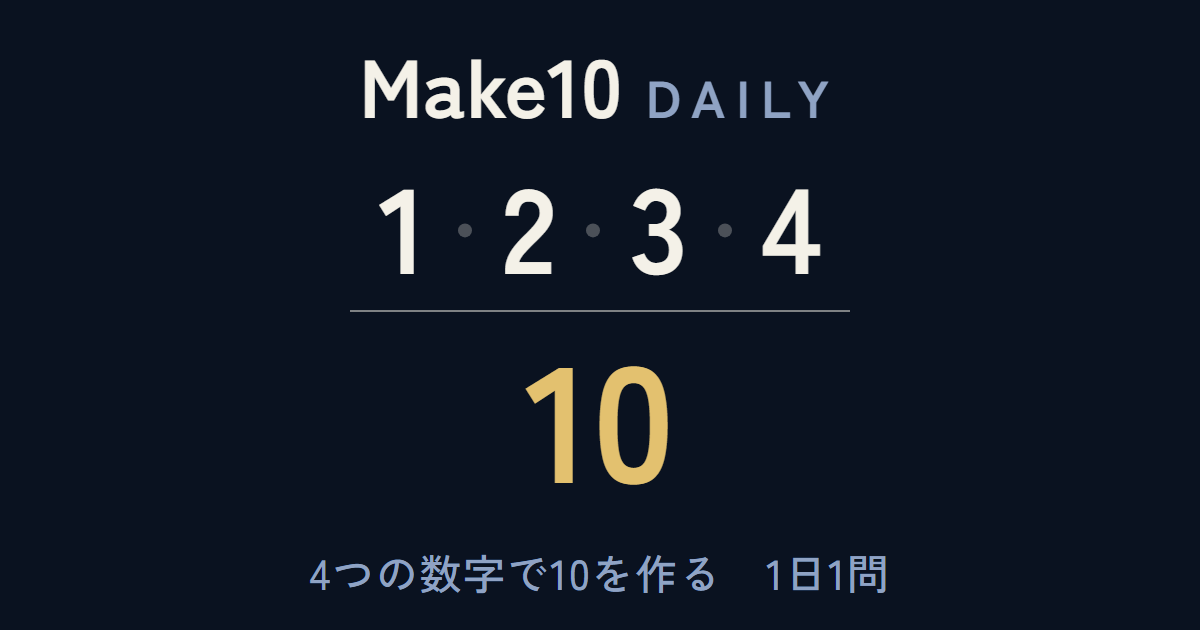
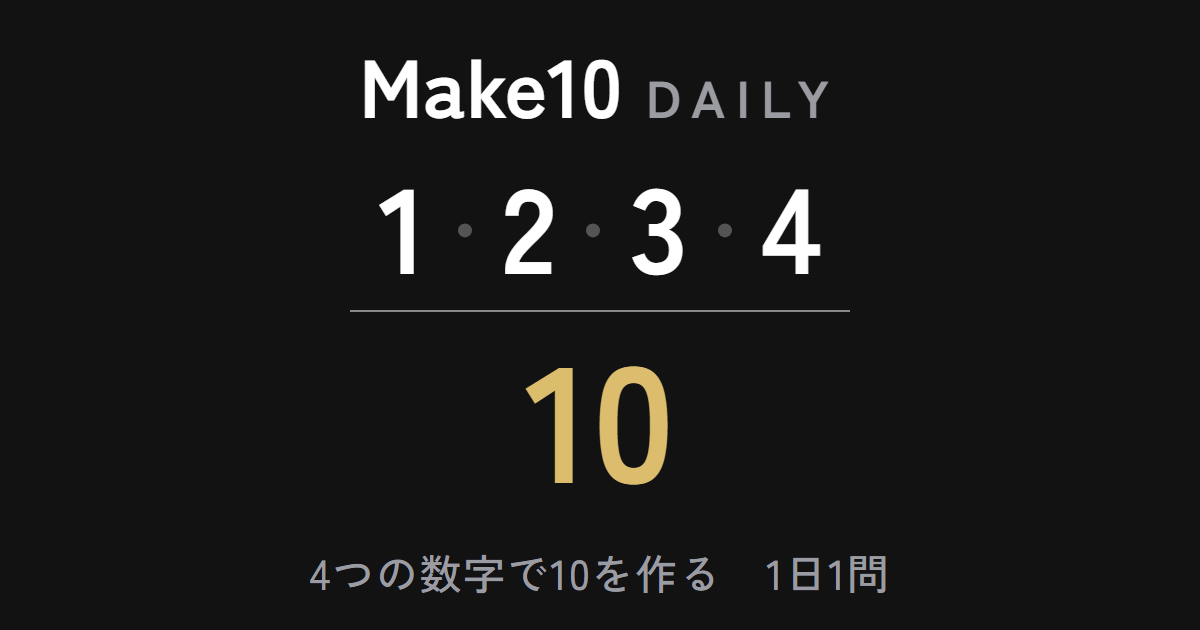
D0.29 デイリーの配色を藍から「黒と白」にする（本編 8.6 と同じ値。OGP の画像とプライバシーポリシーも。本編のページと検証は無変更）
- 本編から複製した藍の規則を本編 8.6 と同じ値に（sync が見る所）。プライバシーポリシーの直値 4 つも黒と白に
- docs/daily/og.png を同じ形のまま黒と白で撮り直した（名前は変えていない。元の HTML はリポジトリの外の og\k.html）
- カレンダーの点 --calDot を、副次色を地に 55% 混ぜた色から 60% に。
  原因: 新しい副次色と地では 55% だと地との比が 2.88 で、決まりの 3 に届かない（60% で 3.20。副次色の半分 3.41 より下）
- DAILY-SPEC 冒頭・9 章・13-8・15 章（ライトモードは案 A 白と墨に決まった。値の表を黒と白と並べて書き直した）・17-6 を更新

確かめたこと:
- python verify_daily.py 2945 / 2948（3 画面・989 秒。落ちたのはカレンダーの点の 3 項目だけ）
- 直してから calendar・sync・brand・ogp・privacy を 3 画面で 502 / 502、sync だけで 10 / 10
- 色を直値で見ていた 10 のケースの期待値を新しい値に

やらなかったこと・気づいたこと:
- わざと壊して赤になるかの確かめはしていない。実機では見ていない
- 公開前なので og.png に ?v= の印は付けていない

Changed region(s): [[0.2467, 0.8746, 0.74, 0.9349], [0.5242, 0.1206, 0.7092, 0.2111]]

diff --git a/docs/daily/index.html b/docs/daily/index.html
@@ -32,7 +32,7 @@
 <style>
 /* ── 本編から複製した規則（セレクタごとに本編と同じ。手を入れない）── */
 :root{--zoneEase:cubic-bezier(.22,.72,.3,1); --dur:.3s; --hotDur:.2s; --bannerH:52px; --bannerGap:14px}
-body[data-theme="ai"]{--ink:#0A1220;--panel:#121D31;--edge:#24344F;--paper:#F4F1E8; --teal:#4FC3B0;--slate:#55688A;--coral:#E2705F;--gold:#E3C16F;--line:159,180,214; --dim:#8FA3C4; --ring:color-mix(in srgb,var(--paper) 22%,transparent); --bannerText:#2F4163}
+body[data-theme="ai"]{--ink:#121213;--panel:#121213;--edge:#3A3A3C;--paper:#FFFFFF; --teal:#4FC3B0;--slate:#5F6064;--coral:#E26A57;--gold:#DCBD6E;--line:154,156,161; --dim:#9A9CA1; --ring:color-mix(in srgb,var(--paper) 22%,transparent); --bannerText:#404145}
 *{box-sizing:border-box;-webkit-tap-highlight-color:transparent}
 html,body{margin:0;height:100%;overflow:hidden}
 body{background:var(--ink); color:var(--paper); font-family:"Zen Kaku Gothic New",system-ui,-apple-system,"Hiragino Sans",sans-serif; font-weight:500;display:flex;justify-content:center;overscroll-behavior:none;touch-action:manipulation}
@@ -296,9 +296,9 @@ body.pop #app{z-index:3}
 /* カレンダー（13-8。D0.11）。囲まない ―― 4 つの数字との間は細い線 1 本。週は月曜始まり。
    日の見分けは形でも分ける: 解いた日 = 塗りつぶした丸（--paper）／ギブアップ = 輪だけの丸（--dim）／
    遊ばなかった日 = 数字の下の小さな点（--calDot）／今日 = 外側に枠／問題が無い日 = 印なし（数字は無効の色）。金も赤も使わない。
-   --calDot（D0.12）は、副次色 --dim を地の色に 55% 混ぜた色。--edge（地との比 1.5）では暗い画面で見落とすので、
-   見える濃さ（比 3.2）にした。輪（--dim。比 7.4）と塗った丸（--paper）よりは沈む。色は既存の変数から作る */
-#dcal{margin:12px 15px 0;padding-top:6px;border-top:1px solid var(--edge);--calDot:color-mix(in srgb,var(--dim) 55%,var(--ink))}
+   --calDot（D0.12）は、副次色 --dim を地の色に 60% 混ぜた色（D0.28 までは 55%。D0.29 の黒と白では 55% だと比 2.88 になるので上げた）。
+   --edge（地との比 1.65）では暗い画面で見落とすので、見える濃さ（比 3.2）にした。輪（--dim。比 6.8）と塗った丸（--paper）よりは沈む。色は既存の変数から作る */
+#dcal{margin:12px 15px 0;padding-top:6px;border-top:1px solid var(--edge);--calDot:color-mix(in srgb,var(--dim) 60%,var(--ink))}
 #dcal .chead{display:flex;align-items:center;justify-content:space-between}
 #dcal .chead b{font-size:14px;font-weight:700}
 #dcal .chead button:disabled{color:var(--slate);opacity:.5;cursor:default}
@@ -599,7 +599,7 @@ body.pop #app{z-index:3}
 </div>
 <script>
 /* デイリー独自の版（本編の APP_VERSION とは別。DAILY-SPEC 18-2）。変えたら CHANGELOG.md と CLAUDE.md の変更履歴に「D」の印で書く */
-const DAILY_VERSION="0.28";
+const DAILY_VERSION="0.29";
 
 /* ═══ 画面の文の辞書 ═══
    STR_CORE は本編と共通の塊（本編から複製。手を入れない）。STR_DAILY はデイリーだけの文で、

diff --git a/docs/privacy/index.html b/docs/privacy/index.html
@@ -11,8 +11,8 @@
 <link rel="preconnect" href="https://fonts.gstatic.com" crossorigin>
 <link href="https://fonts.googleapis.com/css2?family=Zen+Kaku+Gothic+New:wght@400;500;700&display=swap" rel="stylesheet">
 <style>
-/* 色はデイリーの藍（DESIGN.md 1 章の値）。囲まない ―― 節は余白と細い線 1 本で区切る */
-:root{--ink:#0A1220;--edge:#24344F;--paper:#F4F1E8;--dim:#8FA3C4}
+/* 色はデイリーの黒と白（DESIGN.md 1 章の値）。囲まない ―― 節は余白と細い線 1 本で区切る */
+:root{--ink:#121213;--edge:#3A3A3C;--paper:#FFFFFF;--dim:#9A9CA1}
 *{box-sizing:border-box}
 html,body{margin:0}
 body{background:var(--ink);color:var(--paper);

diff --git a/uiharness/daily_cases/calendar.py b/uiharness/daily_cases/calendar.py
@@ -18,9 +18,9 @@ from uiharness.daily_cases import lang as L
 NAME = "カレンダー"
 
 TZ = "Asia/Tokyo"
-PAPER, DIM, EDGE, SLATE, INK = ("rgb(244, 241, 232)", "rgb(143, 163, 196)", "rgb(36, 52, 79)", "rgb(85, 104, 138)",
-                                "rgb(10, 18, 32)")
-GOLD, CORAL = "rgb(227, 193, 111)", "rgb(255, 122, 92)"
+PAPER, DIM, EDGE, SLATE, INK = ("rgb(255, 255, 255)", "rgb(154, 156, 161)", "rgb(58, 58, 60)", "rgb(95, 96, 100)",
+                                "rgb(18, 18, 19)")
+GOLD, CORAL = "rgb(220, 189, 110)", "rgb(255, 122, 92)"
 # 出ている月の、日ごとの [日, 列（左から 0〜6）, 段, 問題番号（ボタンでなければ null）, クラス]
 GRID = ("(()=>{const g=document.getElementById('dcal-grid'),cs=[...g.querySelectorAll('.dc')];"
         "const xs=[...g.querySelectorAll('.dw')].map(e=>Math.round(e.getBoundingClientRect().left+e.getBoundingClientRect().width/2));"
@@ -99,9 +99,9 @@ def run(ui):
              ui.ev("(()=>{const s=getComputedStyle(document.querySelector('#dcal-grid .dc.g i'));"
                    "return [s.backgroundColor,s.borderTopColor,s.borderTopStyle,parseFloat(s.borderTopWidth)>=1,s.borderRadius,s.color]})()"),
              ["rgba(0, 0, 0, 0)", DIM, "solid", True, "50%", DIM])      # 線は 1.5px。1 倍の密度の画面では 1px に丸まる
-    # 点の色（D0.12）は、副次色を地の色に 55% 混ぜた色。期待値はここで別に計算する（ページの変数は読まない）
+    # 点の色（D0.12）は、副次色を地の色に 60% 混ぜた色（D0.29 で 55% から）。期待値はここで別に計算する（ページの変数は読まない）
     rgb = lambda c: [int(v) for v in re.findall(r"\d+", c)[:3]]                       # noqa: E731
-    mix = [(d * 0.55 + k * 0.45) / 255 for d, k in zip(rgb(DIM), rgb(INK))]
+    mix = [(d * 0.60 + k * 0.40) / 255 for d, k in zip(rgb(DIM), rgb(INK))]
 
     def lum(c):
         f = lambda v: v / 12.92 if v <= 0.04045 else ((v + 0.055) / 1.055) ** 2.4      # noqa: E731
@@ -116,7 +116,7 @@ def run(ui):
     got = [float(v) for v in re.findall(r"[\d.]+", d[3].split("srgb")[-1])[:3]] if "srgb" in d[3] else [v / 255 for v in rgb(d[3])]
     ui.check("見た目: 遊ばなかった日は、数字の下の小さな点（5px）。丸は無い。凡例の点も同じ色と大きさ",
              [d[0], d[1], d[2], d[4], d[5], d[6] == d[3], d[7]], ['""', "5px", "5px", "rgba(0, 0, 0, 0)", "0px", True, "5px"])
-    ui.check("点の色は、副次色を地の色に 55% 混ぜた色（別に計算した値と同じ）",
+    ui.check("点の色は、副次色を地の色に 60% 混ぜた色（別に計算した値と同じ）",
              [round(a - b, 3) for a, b in zip(got, mix)], [0, 0, 0])
     ui.check("点は見える濃さ（地との比が 3 以上）で、輪（副次色）と塗った丸（--paper）よりは沈む",
              [ratio(got) >= 3, ratio(got) < ratio([v / 255 for v in rgb(DIM)]) / 2, ratio(got) < ratio([v / 255 for v in rgb(PAPER)]) / 4],

diff --git a/uiharness/daily_cases/settings.py b/uiharness/daily_cases/settings.py
@@ -161,7 +161,7 @@ def run(ui):
     mine = ui.ev(made % ("dsetsheet", "dsetsheet"))
     bw = ui.ev("dstats.getBoundingClientRect().width")          # ボタンの大きさ（--btnW。normal 52px・compact 44px）
     ui.check("幕は画面いっぱい。× はカードの右上（端から 7px）で、上のバーのボタンと同じ大きさ。見出しは 17px・太字",
-             [mine[0], mine[2], mine[4]], [[0, 0, ui.size[0], ui.size[1]], [7, 7, bw, bw], "17px|700|rgb(244, 241, 232)"])
+             [mine[0], mine[2], mine[4]], [[0, 0, ui.size[0], ui.size[1]], [7, 7, bw, bw], "17px|700|rgb(255, 255, 255)"])
     click(ui, "dset-close")
     ui.check("× で閉じる", ui.ev(SHOWN), False)
     click(ui, "dstats")
@@ -202,7 +202,7 @@ def run(ui):
                    "document.body.appendChild(d);const c=getComputedStyle(d).color;d.remove();return c});"
                    "return [...document.querySelectorAll('#dsetsheet *')].filter(e=>{const c=getComputedStyle(e);"
                    "return bad.includes(c.color)||bad.includes(c.backgroundColor)}).length+'|'+bad.join('|')})()"),
-             "0|rgb(227, 193, 111)|" + ui.ev("(function(){const d=document.createElement('i');d.style.color='var(--coral)';"
+             "0|rgb(220, 189, 110)|" + ui.ev("(function(){const d=document.createElement('i');d.style.color='var(--coral)';"
                                              "document.body.appendChild(d);const c=getComputedStyle(d).color;d.remove();return c})()"))
     click(ui, "dset-close")
 

diff --git a/uiharness/daily_cases/agg.py b/uiharness/daily_cases/agg.py
@@ -15,7 +15,7 @@ NAME = "みんなの結果と計測"
 
 TZ = "Asia/Tokyo"
 URL = "https://api.make10.app/r"
-GOLD = "rgb(227, 193, 111)"
+GOLD = "rgb(220, 189, 110)"
 AGG = {"s": 412, "g": 96, "s0": 268, "b": [38, 121, 147, 82, 24]}        # 508 件
 SEEN = ("(function(){const e=document.getElementById(%r);if(!e)return false;const s=getComputedStyle(e);"
         "return s.display!=='none'&&s.visibility!=='hidden'&&e.offsetHeight>0})()")
@@ -87,7 +87,7 @@ def run(ui):
                    "c(me.querySelector('span')).color,c(ot.querySelector('i')).backgroundColor,c(ot.querySelector('i')).opacity,"
                    "[a,...a.querySelectorAll('*')].some(e=>[c(e).color,c(e).backgroundColor,c(e).borderTopColor].includes(%r)),"
                    "/平均|:\\d\\d$/.test(a.querySelector('.ar').firstChild.textContent)]})()" % GOLD),
-             ["rgb(244, 241, 232)", "1", "rgb(244, 241, 232)", "rgb(143, 163, 196)", "0.4", False, False])
+             ["rgb(255, 255, 255)", "1", "rgb(255, 255, 255)", "rgb(154, 156, 161)", "0.4", False, False])
     ui.check("並びは、全解答 → みんなの結果 → 導線（重ならない・画面の左右に収まる）",
              ui.ev("(function(){const r=e=>e.getBoundingClientRect(),a=r(aggbox),s=r(solbox),l=r(applink),p=r(app);"
                    "return [a.top>=s.bottom-0.5,l.top>=a.bottom-0.5,a.left>=p.left&&a.right<=p.right,"

diff --git a/uiharness/daily_cases/help.py b/uiharness/daily_cases/help.py
@@ -318,7 +318,7 @@ def run(ui):
     ui.check("#1 の解答例は、括弧・演算・数字がそろう式（比べる相手がある）", rows[0]["sol"], "( 8 - 7 ) * 5 * 2")
     ui.check("見本の数字・演算・括弧・枠・吸着した枠・トレイ・「10」・「正解」・運ぶ記号は、盤の実物と同じ見た目",
              look["bad"], [])
-    ui.check("見本の大きさの倍率と、金の色（盤の変数から取れている）", [look["dk"], look["gold"]], [0.55, "rgb(227, 193, 111)"])
+    ui.check("見本の大きさの倍率と、金の色（盤の変数から取れている）", [look["dk"], look["gold"]], [0.55, "rgb(220, 189, 110)"])
     # 金を使うのは「10」だけ（1 章）。遊び方の中では、見本の「10」の 1 つだけ（play・result の金の確かめは、遊び方の外を見ている）
     ui.check("遊び方の中で金を使っているのは、見本の「10」だけ",
              ui.ev("[...document.querySelectorAll('#dhelpsheet *')].filter(e=>getComputedStyle(e).color===%r)"

diff --git a/uiharness/daily_cases/win_line.py b/uiharness/daily_cases/win_line.py
@@ -223,7 +223,7 @@ def run(ui):
         ys = sorted({f[7] for f in frames})
         ui.check("動きを減らす設定: 正解になる（金の「10」と「正解」は出る）",
                  [ui.text("eq") + "|" + ui.text("sub"), ui.ev("getComputedStyle(eq).color"), ui.ev("play.classList.contains('done')")],
-                 ["10|正解", "rgb(227, 193, 111)", True])
+                 ["10|正解", "rgb(220, 189, 110)", True])
         ui.check("動きを減らす設定: 数字は動かず、光らない。線は 1 コマも見えない。動いているアニメーションは 0",
                  [moved, not_none, lit, max(f[5] for f in frames), max(f[3] for f in after)], [[], 0, 0, 0, 0])
         ui.check("動きを減らす設定: 読み出し行は、途中のコマ無しで行き先に着く（寄る前か、寄った後のどちらかだけ）",

diff --git a/uiharness/daily_cases/play.py b/uiharness/daily_cases/play.py
@@ -22,7 +22,7 @@ def center(ui, sel):
     return ui.ev("(()=>{const b=document.querySelector(%r).getBoundingClientRect();"
                  "return [b.left+b.width/2,b.top+b.height/2]})()" % sel)
 
-GOLD = "rgb(227, 193, 111)"                      # --gold（藍）。金を使うのは正解の「10」だけ
+GOLD = "rgb(220, 189, 110)"                      # --gold（黒と白。D0.29 まで藍）。金を使うのは正解の「10」だけ
 OPS = {"A": "+", "S": "−", "M": "×", "D": "÷", "P": "^", "F": "!"}     # 画面に出る記号
 RAW = {"A": "+", "S": "-", "M": "*", "D": "/", "P": "^", "F": "!"}     # トレイの data-op
 STATE = ("(function(){const e=document.getElementById('eq');return ["

diff --git a/uiharness/daily_cases/privacy.py b/uiharness/daily_cases/privacy.py
@@ -34,7 +34,7 @@ def run(ui):
     ui.check("リンクは副次色の小さい字で、下線がある",
              ui.ev("(function(){const s=getComputedStyle(dprivacy);"
                    "return [s.color,s.fontSize,s.textDecorationLine]})()"),
-             ["rgb(143, 163, 196)", "12px", "underline"])
+             ["rgb(154, 156, 161)", "12px", "underline"])
     href = ui.ev("dprivacy.href")
     ui.check_no_errors("遊び方を開いて JS エラー 0")
 

diff --git a/uiharness/daily_cases/result.py b/uiharness/daily_cases/result.py
@@ -12,8 +12,8 @@ from uiharness import daily_ui as dui
 
 NAME = "解いた後・保存・連続日数"
 
-GOLD = "rgb(227, 193, 111)"
-DIM = "rgb(143, 163, 196)"
+GOLD = "rgb(220, 189, 110)"
+DIM = "rgb(154, 156, 161)"
 TZ = "Asia/Tokyo"
 CLOCK_WAIT = 5.6           # 見回り（CLOCK_WATCH_MS = 5 秒おき）が 1 回は走るのを待つ秒
 RECT = ("(function(){const r=document.querySelector(%r).getBoundingClientRect();"

diff --git a/uiharness/daily_cases/hint.py b/uiharness/daily_cases/hint.py
@@ -15,7 +15,7 @@ NAME = "ヒントと共有"
 
 TZ = "Asia/Tokyo"
 URL = "https://make10.app/daily/"
-SLATE = "rgb(85, 104, 138)"
+SLATE = "rgb(95, 96, 100)"
 GLYPH = {"+": "+", "-": "−", "*": "×", "/": "÷", "^": "^", "!": "!"}
 SEEN = ("(function(){const e=document.querySelector(%r);if(!e)return false;const s=getComputedStyle(e);"
         "return s.display!=='none'&&s.visibility!=='hidden'&&e.offsetHeight>0})()")

diff --git a/uiharness/daily_cases/brand.py b/uiharness/daily_cases/brand.py
@@ -16,7 +16,7 @@ from uiharness import daily_ui as dui
 NAME = "名前（Make10 DAILY）"
 
 TZ = "Asia/Tokyo"
-GOLD = "rgb(227, 193, 111)"
+GOLD = "rgb(220, 189, 110)"
 AGG = {"s": 412, "g": 96, "s0": 268, "b": [38, 121, 147, 82, 24]}
 PEND = {"s": 20, "g": 9, "s0": 3, "b": [1, 5, 9, 4, 1]}
 RECT = ("(function(){const e=document.querySelector(%r);if(!e)return null;const r=e.getBoundingClientRect();"
